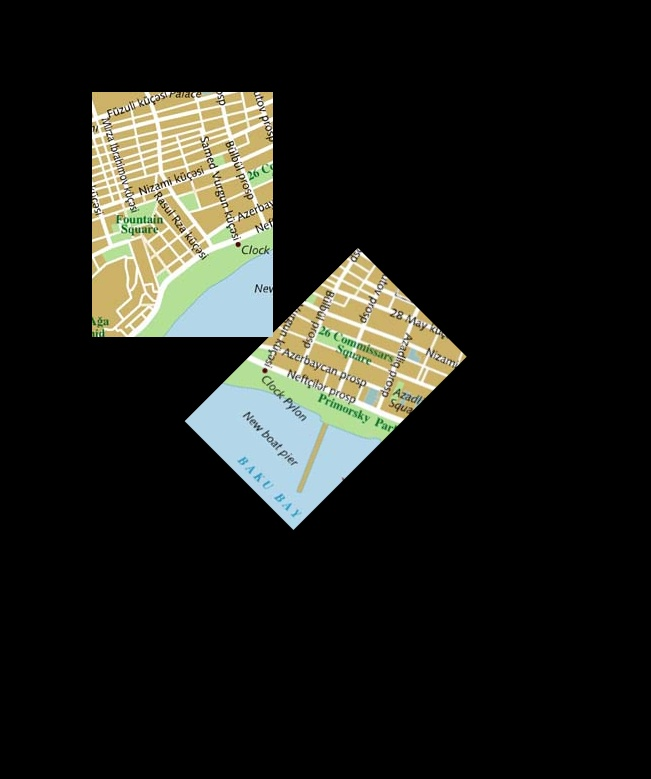
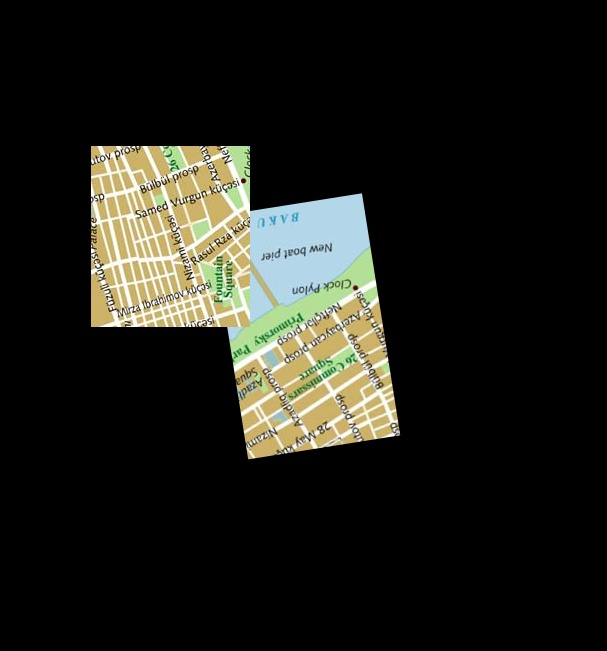
Bug fixed when getting the format of numpy indexing

Changed region(s): [[0.1186, 0.0922, 0.7117, 0.7066]]

diff --git a/CoordinateSystem.py b/CoordinateSystem.py
@@ -88,9 +88,12 @@ class CoordinateSystem:
         new_format = np.append(new_format,np.array([np.tile(np.array([0,1,2]),int(len(coordintes[0])))]),axis=0)
         # end = time.time()
         # print("Numpy coornates: ",end-Start,"\n\n")
-        new_format = np.around(new_format)
-        return new_format.astype(int)
+        new_format = np.around(new_format).astype(int)
+        return new_format
     
+    def makeImageCoordinateFormat(self,new_format):
+        return (new_format[0],new_format[1],new_format[2])
+
     def get_indecies_on_rotate(self, SHIFT_X, SHIFT_Y, thetha):
         if (thetha != 0):
             self.rotateCornersOfImage2(thetha)
@@ -106,5 +109,7 @@ class CoordinateSystem:
         coordinates_in_polygon2 = self.make_image_format_indexing(initialPolygon2)
         coordinates_in_polygon1[0] = coordinates_in_polygon1[0] - SHIFT_X
         coordinates_in_polygon1[1] = coordinates_in_polygon1[1] - SHIFT_Y
-
+        coordinates_in_polygon1 = self.makeImageCoordinateFormat(coordinates_in_polygon1)
+        coordinates_in_polygon2 = self.makeImageCoordinateFormat(coordinates_in_polygon2)
+        
         return (coordinates_in_polygon1, coordinates_in_polygon2)

diff --git a/ImageStitcher.py b/ImageStitcher.py
@@ -40,13 +40,11 @@ class ImageStitcher:
 
     def calculateLoss(self,SHIFT):
         SHIFT_X,SHIFT_Y, thetha = SHIFT
-        # SHIFT_X, SHIFT_Y, thetha = int(SHIFT_X*(self.w1+self.w2)),int(SHIFT_Y*(self.h1+self.h2)),int(thetha*360)
-        SHIFT_X, SHIFT_Y, thetha = int(SHIFT_X),int(SHIFT_Y),int(thetha)
+        SHIFT_X, SHIFT_Y, thetha = int(SHIFT_X*(self.w1+self.w2)),int(SHIFT_Y*(self.h1+self.h2)),int(thetha*360)
+        # SHIFT_X, SHIFT_Y, thetha = int(SHIFT_X),int(SHIFT_Y),int(thetha)
         print("SHIFT_X: ",SHIFT_X,"    SHIFT_Y: ",SHIFT_Y,"    Angle: ",thetha)
         if (SHIFT_X>=self.w1+self.img2_canvas_size-self.img2_canvas_size*0.05 or SHIFT_Y>=self.h1+self.img2_canvas_size-self.img2_canvas_size*0.05 or SHIFT_Y<self.img2_canvas_size*0.05 or SHIFT_X<self.img2_canvas_size*0.05):
             return 255*3*self.w1*self.h1*self.h2*self.w2
-        if (SHIFT_X ==68 and SHIFT_Y ==460):
-            print("hi")
         self.coor_system.set_rectangles(self.getCornersOfImages((SHIFT_X,SHIFT_Y, 360-thetha)))
         coordinates_of_intersection = self.coor_system.get_indecies_on_rotate(SHIFT_X, SHIFT_Y,thetha)
         if (coordinates_of_intersection == -1):

diff --git a/main.py b/main.py
@@ -12,7 +12,7 @@ class main:
 
     if __name__=='__main__':
         START_TIME = time.time()
-        img1 = cv2.imread('images/Map1.png')
+        img1 = cv2.imread('images/Map1-rotate.png')
         img2 = cv2.imread('images/Map2.png')  
         mosaic2Images(img1,img2)
         END_TIME = time.time()
